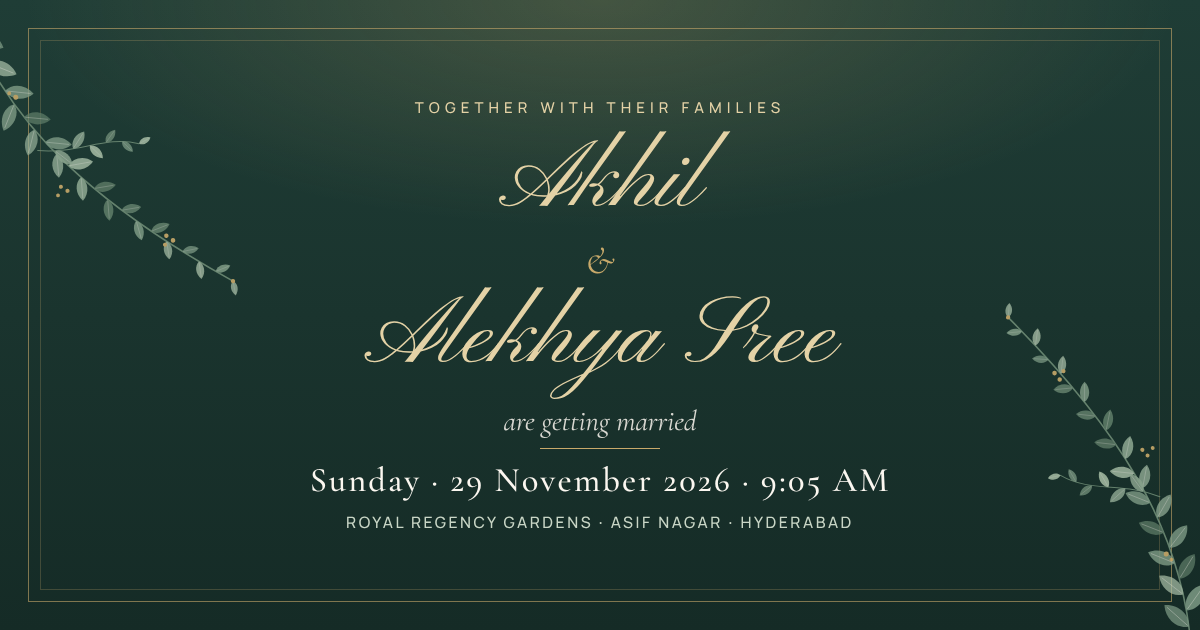
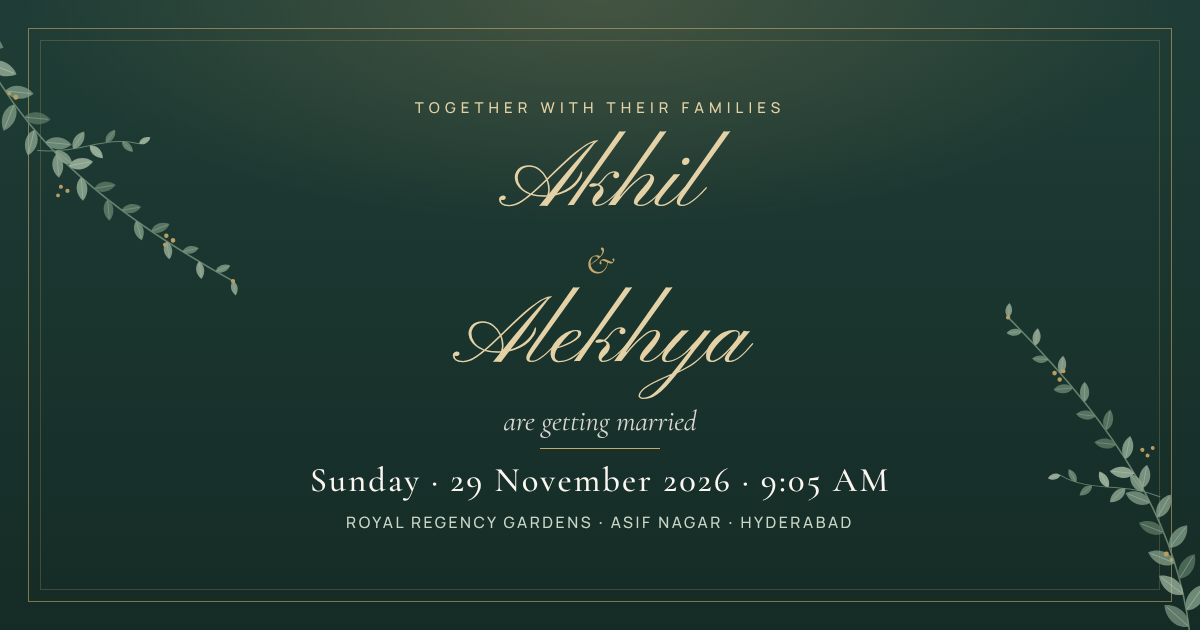
Add Telugu language toggle, first-name-only couple, live og:image domain
- js/i18n.js: EN/తెలుగు switch (data-te attributes, App.t, ?lang=te,
  remembered choice), Telugu fonts loaded on demand, Telugu wedding data
- core: couple shown as Akhil & Alekhya; surnames kept for parents;
  Telugu-safe text splitting (words only)
- base.css: Telugu font tokens and toggle styles
- og:image now points at aawedding-rosy.vercel.app; share images updated

Claude-Session: https://claude.ai/code/session_01JBgCeBM1Qd8sCHPmnprrrj

Changed region(s): [[0.3083, 0.4524, 0.7092, 0.6333], [0.5242, 0.6032, 0.555, 0.6333]]

diff --git a/js/i18n.js b/js/i18n.js
@@ -1,0 +1,182 @@
+/* ==========================================================
+   i18n.js — English / Telugu (తెలుగు) language switch.
+
+   HOW TO MAKE TEXT TRANSLATABLE
+   In HTML partials, keep English as the element's normal content and
+   put the Telugu alongside it:
+     <p data-te="ఇరు కుటుంబాల ఆశీస్సులతో">Together with their families</p>
+     <p data-te-html="శ్రీ ... <br/> ...">Elder son of<br/>...</p>   (trusted static markup only)
+     <button aria-label="Play music" data-te-aria-label="సంగీతం ప్లే చేయండి">
+     <input placeholder="Your name" data-te-placeholder="మీ పేరు">
+   Put data-te on the innermost text element (a leaf), not on a wrapper
+   whose children have their own listeners or animations.
+
+   In JS, use App.t("English", "తెలుగు") or App.t({ en, te }) at render
+   time, and re-render on App.on("lang", (lang) => ...).
+
+   SplitText: if a module splits an element that also has data-te, it must
+   store the instance on the element (el._split = split) so the switch can
+   revert it first. Never split Telugu into characters: it breaks
+   conjunct letters. Use words. App.splitChars() tells you if chars are OK.
+
+   Language selection order: ?lang=te|en, then a saved choice, then English.
+   ========================================================== */
+(function () {
+  const App = window.App;
+  if (!App) return;
+
+  const KEY = "aa-lang";
+  const TE_FONTS =
+    "https://fonts.googleapis.com/css2?family=Suranna&family=Noto+Serif+Telugu:wght@400;500;600&family=Anek+Telugu:wght@400;500;600&display=swap";
+
+  const store = {
+    get() { try { return localStorage.getItem(KEY); } catch (_) { return null; } },
+    set(v) { try { localStorage.setItem(KEY, v); } catch (_) {} },
+  };
+  const valid = (l) => l === "en" || l === "te";
+  const fromParam = App.params.get("lang");
+  const initial = valid(fromParam) ? fromParam : valid(store.get()) ? store.get() : "en";
+
+  App.lang = "en";
+  App.t = (en, te) => {
+    if (en && typeof en === "object") return App.lang === "te" && en.te != null ? en.te : en.en;
+    return App.lang === "te" && te != null ? te : en;
+  };
+  App.splitChars = () => App.lang !== "te";
+
+  /* ---------- Telugu copy for shared data (names, venue, date) ---------- */
+  App.WEDDING.te = {
+    groom: "అఖిల్",
+    bride: "అలేఖ్య",
+    couple: "అఖిల్ & అలేఖ్య",
+    groomParents: ["శ్రీ పిల్లి మారేశ్వర రావు", "శ్రీమతి అరుణశ్రీ"],
+    brideParents: ["శ్రీ తప్పెట్ల గణేష్ కుమార్", "శ్రీమతి స్వర్ణలత"],
+    groomRelation: "గార్ల జ్యేష్ఠ పుత్రుడు",   // follows the parents' names in Telugu
+    brideRelation: "గార్ల జ్యేష్ఠ పుత్రిక",
+    families: "పిల్లి & తప్పెట్ల కుటుంబాలు",
+    dateLong: "ఆదివారం, 29 నవంబర్ 2026",
+    time: "ఉదయం 9:05 గంటలకు",
+    venue: {
+      name: "రాయల్ రీజెన్సీ గార్డెన్స్",
+      line1: "ఇండియన్ ఆయిల్ పెట్రోల్ బంక్ ఎదురుగా, మెహదీపట్నం రోడ్",
+      line2: "ఆసిఫ్ నగర్, హైదరాబాద్",
+    },
+  };
+
+  /* ---------- swap engine ---------- */
+  const ATTRS = ["aria-label", "placeholder", "title", "alt"];
+  const camel = (a) => "te" + a.split("-").map((s) => s[0].toUpperCase() + s.slice(1)).join("");
+  const SELECTOR = "[data-te],[data-te-html]," + ATTRS.map((a) => `[data-te-${a}]`).join(",");
+  const originals = new WeakMap();
+
+  function snapshot(el) {
+    if (originals.has(el)) return originals.get(el);
+    const o = { html: el.innerHTML, attrs: {} };
+    ATTRS.forEach((a) => { if (el.hasAttribute(a)) o.attrs[a] = el.getAttribute(a); });
+    originals.set(el, o);
+    return o;
+  }
+
+  // Capture the English originals now, before any module splits or rewrites text.
+  document.querySelectorAll(SELECTOR).forEach(snapshot);
+
+  function applyDom(lang) {
+    document.querySelectorAll(SELECTOR).forEach((el) => {
+      const o = snapshot(el);
+      const hasText = el.dataset.te != null || el.dataset.teHtml != null;
+      if (hasText) {
+        if (el._split) { try { el._split.revert(); } catch (_) {} el._split = null; }
+        if (lang === "te") {
+          if (el.dataset.teHtml != null) el.innerHTML = el.dataset.teHtml;
+          else el.textContent = el.dataset.te;
+        } else {
+          el.innerHTML = o.html;
+        }
+        // anything a reveal had hidden mid-animation must stay readable
+        if (window.gsap) window.gsap.set(el, { clearProps: "opacity,transform" });
+      }
+      ATTRS.forEach((a) => {
+        const te = el.dataset[camel(a)];
+        if (te == null) return;
+        if (lang === "te") el.setAttribute(a, te);
+        else if (o.attrs[a] != null) el.setAttribute(a, o.attrs[a]);
+      });
+    });
+  }
+
+  let fontsLinked = false;
+  function loadTeluguFonts() {
+    if (fontsLinked) return Promise.resolve();
+    fontsLinked = true;
+    const link = Object.assign(document.createElement("link"), { rel: "stylesheet", href: TE_FONTS });
+    document.head.appendChild(link);
+    return new Promise((resolve) => {
+      link.onload = () => {
+        Promise.all(["Suranna", "Noto Serif Telugu", "Anek Telugu"].map((f) => document.fonts.load(`1em "${f}"`, "అ")))
+          .catch(() => {})
+          .then(resolve);
+      };
+      link.onerror = resolve;
+      setTimeout(resolve, 3000);
+    });
+  }
+
+  function setLang(lang, { silent = false } = {}) {
+    if (!valid(lang)) return;
+    const changed = lang !== App.lang;
+    App.lang = lang;
+    const html = document.documentElement;
+    html.lang = lang;
+    html.classList.toggle("lang-te", lang === "te");
+    applyDom(lang);
+    updateToggle();
+    store.set(lang);
+    if (lang === "te") {
+      loadTeluguFonts().then(() => window.ScrollTrigger && window.ScrollTrigger.refresh());
+    }
+    if (changed && !silent) {
+      App.emit("lang", lang);
+      window.ScrollTrigger && window.ScrollTrigger.refresh();
+    }
+  }
+  App.setLang = setLang;
+
+  /* ---------- the toggle (fixed, visible on the intro and the page) ---------- */
+  let toggle;
+  function buildToggle() {
+    toggle = document.createElement("div");
+    toggle.className = "lang-toggle";
+    toggle.setAttribute("role", "group");
+    toggle.setAttribute("aria-label", "Language / భాష");
+    toggle.innerHTML =
+      '<span class="lang-toggle__thumb" aria-hidden="true"></span>' +
+      '<button type="button" data-lang="en" lang="en">EN</button>' +
+      '<button type="button" data-lang="te" lang="te">తెలుగు</button>';
+    toggle.addEventListener("click", (e) => {
+      const b = e.target.closest("button[data-lang]");
+      if (!b || b.dataset.lang === App.lang) return;
+      App.haptic(8);
+      setLang(b.dataset.lang);
+    });
+    document.body.appendChild(toggle);
+  }
+  function updateToggle() {
+    if (!toggle) return;
+    toggle.dataset.active = App.lang;
+    toggle.querySelectorAll("button").forEach((b) => b.setAttribute("aria-pressed", String(b.dataset.lang === App.lang)));
+  }
+
+  buildToggle();
+  // Apply the initial language before modules initialise, so they render and split in it.
+  if (initial === "te") {
+    App._fontsPending = loadTeluguFonts();   // core.start() waits for this before modules init
+    setLang("te", { silent: true });
+    // Elements parsed after this script (if any) get translated once the DOM is complete.
+    // This listener is registered before main.js's, so it runs before modules initialise.
+    if (document.readyState === "loading") {
+      document.addEventListener("DOMContentLoaded", () => applyDom(App.lang));
+    }
+  } else {
+    updateToggle();
+  }
+})();

diff --git a/css/base.css b/css/base.css
@@ -159,6 +159,53 @@ html.js-anim [data-reveal] { opacity: 0; }
 .split-line { display: block; overflow: hidden; padding-bottom: .08em; }
 .split-word, .split-char { display: inline-block; will-change: transform; }
 
+/* ---------------- Telugu (తెలుగు) ----------------
+   Switching html[lang] swaps the font tokens, so every module follows automatically.
+   Telugu glyphs carry vowel signs above and below the line, so tracking is removed and
+   line-height is opened up on translated text. Modules fine-tune sizes with html.lang-te rules. */
+html[lang="te"] {
+  --serif: "Noto Serif Telugu", "Cormorant Garamond", serif;
+  --script: "Suranna", "Noto Serif Telugu", serif;
+  --sans: "Anek Telugu", "Manrope", system-ui, sans-serif;
+}
+html.lang-te [data-te],
+html.lang-te [data-te-html] {
+  letter-spacing: 0 !important;
+  text-transform: none !important;
+  font-style: normal !important;   /* Telugu has no true italics; synthetic slant looks broken */
+}
+html.lang-te .eyebrow { letter-spacing: .04em; font-size: .86rem; }
+
+/* ---------------- language toggle (built by js/i18n.js) ---------------- */
+.lang-toggle {
+  position: fixed; z-index: 85;
+  top: max(12px, env(safe-area-inset-top)); left: max(12px, env(safe-area-inset-left));
+  display: inline-grid; grid-template-columns: 1fr 1fr; align-items: center;
+  padding: 3px; border-radius: 999px;
+  background: rgba(21, 43, 38, .78);
+  border: 1px solid rgba(200, 169, 106, .55);
+  -webkit-backdrop-filter: blur(8px); backdrop-filter: blur(8px);
+  box-shadow: 0 8px 24px -10px rgba(15, 32, 28, .5);
+}
+.lang-toggle button {
+  position: relative; z-index: 1;
+  min-width: 52px; min-height: 36px; padding: 0 .8rem;
+  font-family: "Manrope", system-ui, sans-serif; font-size: .74rem; font-weight: 600; letter-spacing: .08em;
+  color: var(--gold-soft); border-radius: 999px;
+  transition: color .35s ease;
+}
+.lang-toggle button[lang="te"] { font-family: "Anek Telugu", "Noto Sans Telugu", system-ui, sans-serif; letter-spacing: 0; font-size: .82rem; }
+.lang-toggle button[aria-pressed="true"] { color: var(--emerald-deep); }
+.lang-toggle button:focus-visible { outline: 2px solid var(--gold-soft); outline-offset: 2px; }
+/* expand the hit area to 44px without growing the pill */
+.lang-toggle button::after { content: ""; position: absolute; inset: -4px -2px; }
+.lang-toggle__thumb {
+  position: absolute; top: 3px; bottom: 3px; left: 3px; width: calc(50% - 3px);
+  border-radius: 999px; background: var(--foil); background-size: 200% 100%;
+  transition: transform .5s var(--ease-spring);
+}
+.lang-toggle[data-active="te"] .lang-toggle__thumb { transform: translateX(100%); }
+
 /* ---------------- a11y ---------------- */
 .sr-only {
   position: absolute !important; width: 1px; height: 1px; padding: 0; margin: -1px;

diff --git a/js/core.js b/js/core.js
@@ -12,6 +12,7 @@
      "music:play" / "music:pause"
      "tilt"          {x, y} in -1..1 from pointer (desktop) or gyroscope (phones)
      "resize"        debounced window resize
+     "lang"          "en" | "te" after the language switch (see js/i18n.js)
    ========================================================== */
 (function () {
   const gsap = window.gsap;
@@ -28,14 +29,16 @@
   const venueQuery = "Royal Regency Gardens, Asif Nagar, Hyderabad";
   const enc = encodeURIComponent;
   const WEDDING = {
+    // The couple are shown by first name only; surnames appear only with the parents.
     groom: {
-      first: "Akhil", full: "Pilli Akhil",
+      first: "Akhil", full: "Akhil", family: "Pilli",
       relation: "Elder son of", parents: ["Mr. Pilli Mareswara Rao", "Mrs. Arunasri"],
     },
     bride: {
-      first: "Alekhya Sree", full: "Tappetla Alekhya Sree",
+      first: "Alekhya", full: "Alekhya", family: "Tappetla",
       relation: "Elder daughter of", parents: ["Mr. Tappetla Ganesh Kumar", "Mrs. Swarnalatha"],
     },
+    couple: "Akhil & Alekhya",
     families: "the Pilli & Tappetla families",
     hashtag: "#AkhilWedsAlekhya",
     start: new Date("2026-11-29T09:05:00+05:30"),
@@ -156,7 +159,12 @@
       setupPointerTilt();
       setupResize();
 
-      try { await Promise.race([document.fonts.ready, new Promise((r) => setTimeout(r, 2500))]); } catch (_) {}
+      try {
+        await Promise.race([
+          Promise.all([document.fonts.ready, App._fontsPending || Promise.resolve()]),
+          new Promise((r) => setTimeout(r, 2500)),
+        ]);
+      } catch (_) {}
 
       for (const m of modules) {
         try { m.init(App); }
@@ -260,11 +268,13 @@
     });
     if (window.SplitText) {
       splits.forEach((el) => {
-        const chars = el.dataset.split === "chars";
+        // Telugu must never be split into characters (it breaks conjunct letters)
+        const chars = el.dataset.split === "chars" && App.lang !== "te";
         const split = new window.SplitText(el, {
           type: chars ? "lines,words,chars" : "lines,words",
           linesClass: "split-line", wordsClass: "split-word", charsClass: "split-char",
         });
+        el._split = split;   // lets the language switch revert it
         gsap.from(chars ? split.chars : split.words, {
           yPercent: 110, opacity: 0, rotate: chars ? 0 : 4,
           duration: 1.1, ease: "expo.out", stagger: chars ? 0.025 : 0.06,

diff --git a/src/partials/00-head.html b/src/partials/00-head.html
@@ -3,18 +3,18 @@
 <head>
   <meta charset="utf-8" />
   <meta name="viewport" content="width=device-width, initial-scale=1, viewport-fit=cover" />
-  <title>Akhil &amp; Alekhya Sree · 29.11.2026</title>
-  <meta name="description" content="You're invited to the wedding of Akhil &amp; Alekhya Sree on Sunday, 29 November 2026 at 9:05 AM, Royal Regency Gardens, Asif Nagar, Hyderabad." />
+  <title>Akhil &amp; Alekhya · 29.11.2026</title>
+  <meta name="description" content="You're invited to the wedding of Akhil &amp; Alekhya on Sunday, 29 November 2026 at 9:05 AM, Royal Regency Gardens, Asif Nagar, Hyderabad." />
   <meta name="theme-color" content="#1f3d36" />
   <!-- Keep the invite out of search engines. Anyone with the link can still open it. -->
   <meta name="robots" content="noindex, nofollow" />
 
   <!-- Link preview for WhatsApp, Instagram and iMessage. og:image must be an absolute URL:
-       after the first Vercel deploy, replace the domain below with your live domain. -->
+       if the site moves to another domain (e.g. a custom one), update the domain below. -->
   <meta property="og:type" content="website" />
-  <meta property="og:title" content="Akhil &amp; Alekhya Sree are getting married" />
+  <meta property="og:title" content="Akhil &amp; Alekhya are getting married" />
   <meta property="og:description" content="Sunday, 29 November 2026 · 9:05 AM · Royal Regency Gardens, Hyderabad. Tap to open your invitation." />
-  <meta property="og:image" content="https://akhil-weds-alekhya.vercel.app/assets/og-image.png" />
+  <meta property="og:image" content="https://aawedding-rosy.vercel.app/assets/og-image.png" />
   <meta property="og:image:width" content="1200" />
   <meta property="og:image:height" content="630" />
   <meta name="twitter:card" content="summary_large_image" />

diff --git a/src/partials/99-foot.html b/src/partials/99-foot.html
@@ -12,6 +12,7 @@
 
 <!-- App core, then feature modules (each registers itself with App.module) -->
 <script src="js/core.js"></script>
+<script src="js/i18n.js"></script>
 <script src="js/music.js"></script>
 <script src="js/particles.js"></script>
 <script src="js/fx.js"></script>

diff --git a/README.md b/README.md
@@ -1,4 +1,4 @@
-# Akhil & Alekhya Sree · 29.11.2026
+# Akhil & Alekhya · 29.11.2026
 
 An interactive web wedding invitation built with vanilla JS, GSAP, ScrollTrigger and Lenis. There's no framework, and it deploys as a static site on Vercel.
 
@@ -9,8 +9,8 @@ Royal Regency Gardens, Opp. Indian Oil Petrol Pump, Mehdipatnam Road, Asif Nagar
 
 1. Go to **vercel.com → Add New… → Project → Import Git Repository**, and pick `PILLIAKHIL0502/Aawedding`.
    If the repo isn't listed, click "Adjust GitHub App Permissions" and give Vercel access to it.
-2. **Project name:** `akhil-weds-alekhya`. This gives the URL `akhil-weds-alekhya.vercel.app`, which the link-preview
-   image in `src/partials/00-head.html` already points to. If you pick another name, update `og:image` there.
+2. **Live URL:** https://aawedding-rosy.vercel.app. The link-preview image (`og:image` in `src/partials/00-head.html`)
+   points to this domain. If you add a custom domain, update it there.
 3. **Framework preset:** *Other*. Leave the build settings alone, because `vercel.json` already sets them
    (`npm run build` → `dist/`).
 4. Click **Deploy**. Every `git push` after that redeploys automatically.
@@ -27,6 +27,7 @@ Useful URL parameters:
 
 | Param | Effect |
 |---|---|
+| `?lang=te` | Opens in Telugu (తెలుగు). Send this link to Telugu-reading relatives |
 | `?to=Ravi%20Uncle` | Personal greeting: "Dear Ravi Uncle," on the intro scroll and the hero |
 | `?skipintro` | Skips the rolled-scroll intro (handy while editing) |
 
@@ -44,6 +45,8 @@ scripts/        dev server + build
 ```
 
 All wedding details (names, parents, date, venue and map links) live in **`js/core.js` → `WEDDING`**.
+The Telugu versions live in **`js/i18n.js` → `WEDDING.te`**, and each section keeps its Telugu text next to the English
+(`data-te="…"` attributes in `src/partials/*.html`).
 
 ## Customise
 
